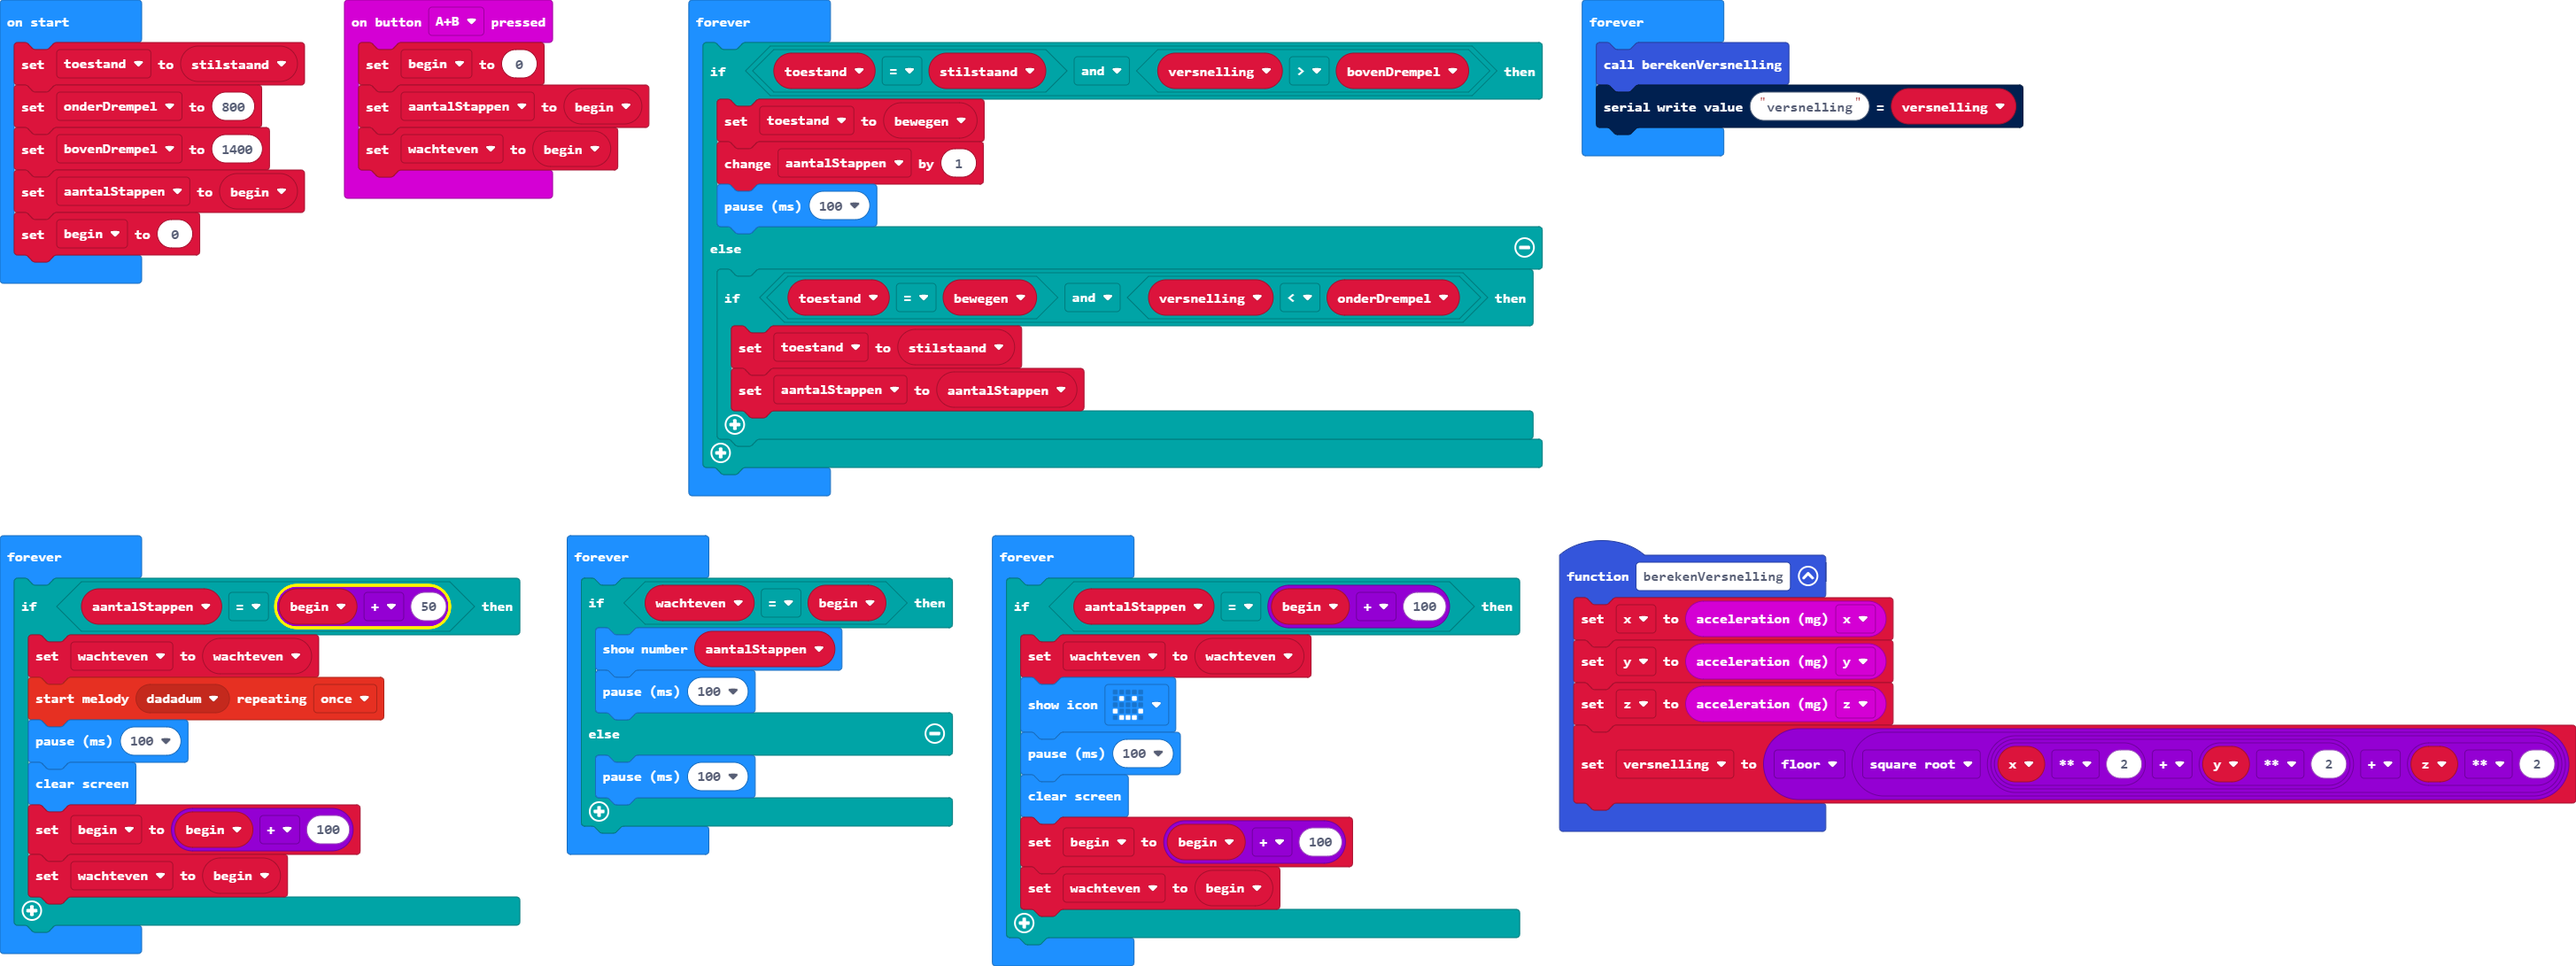
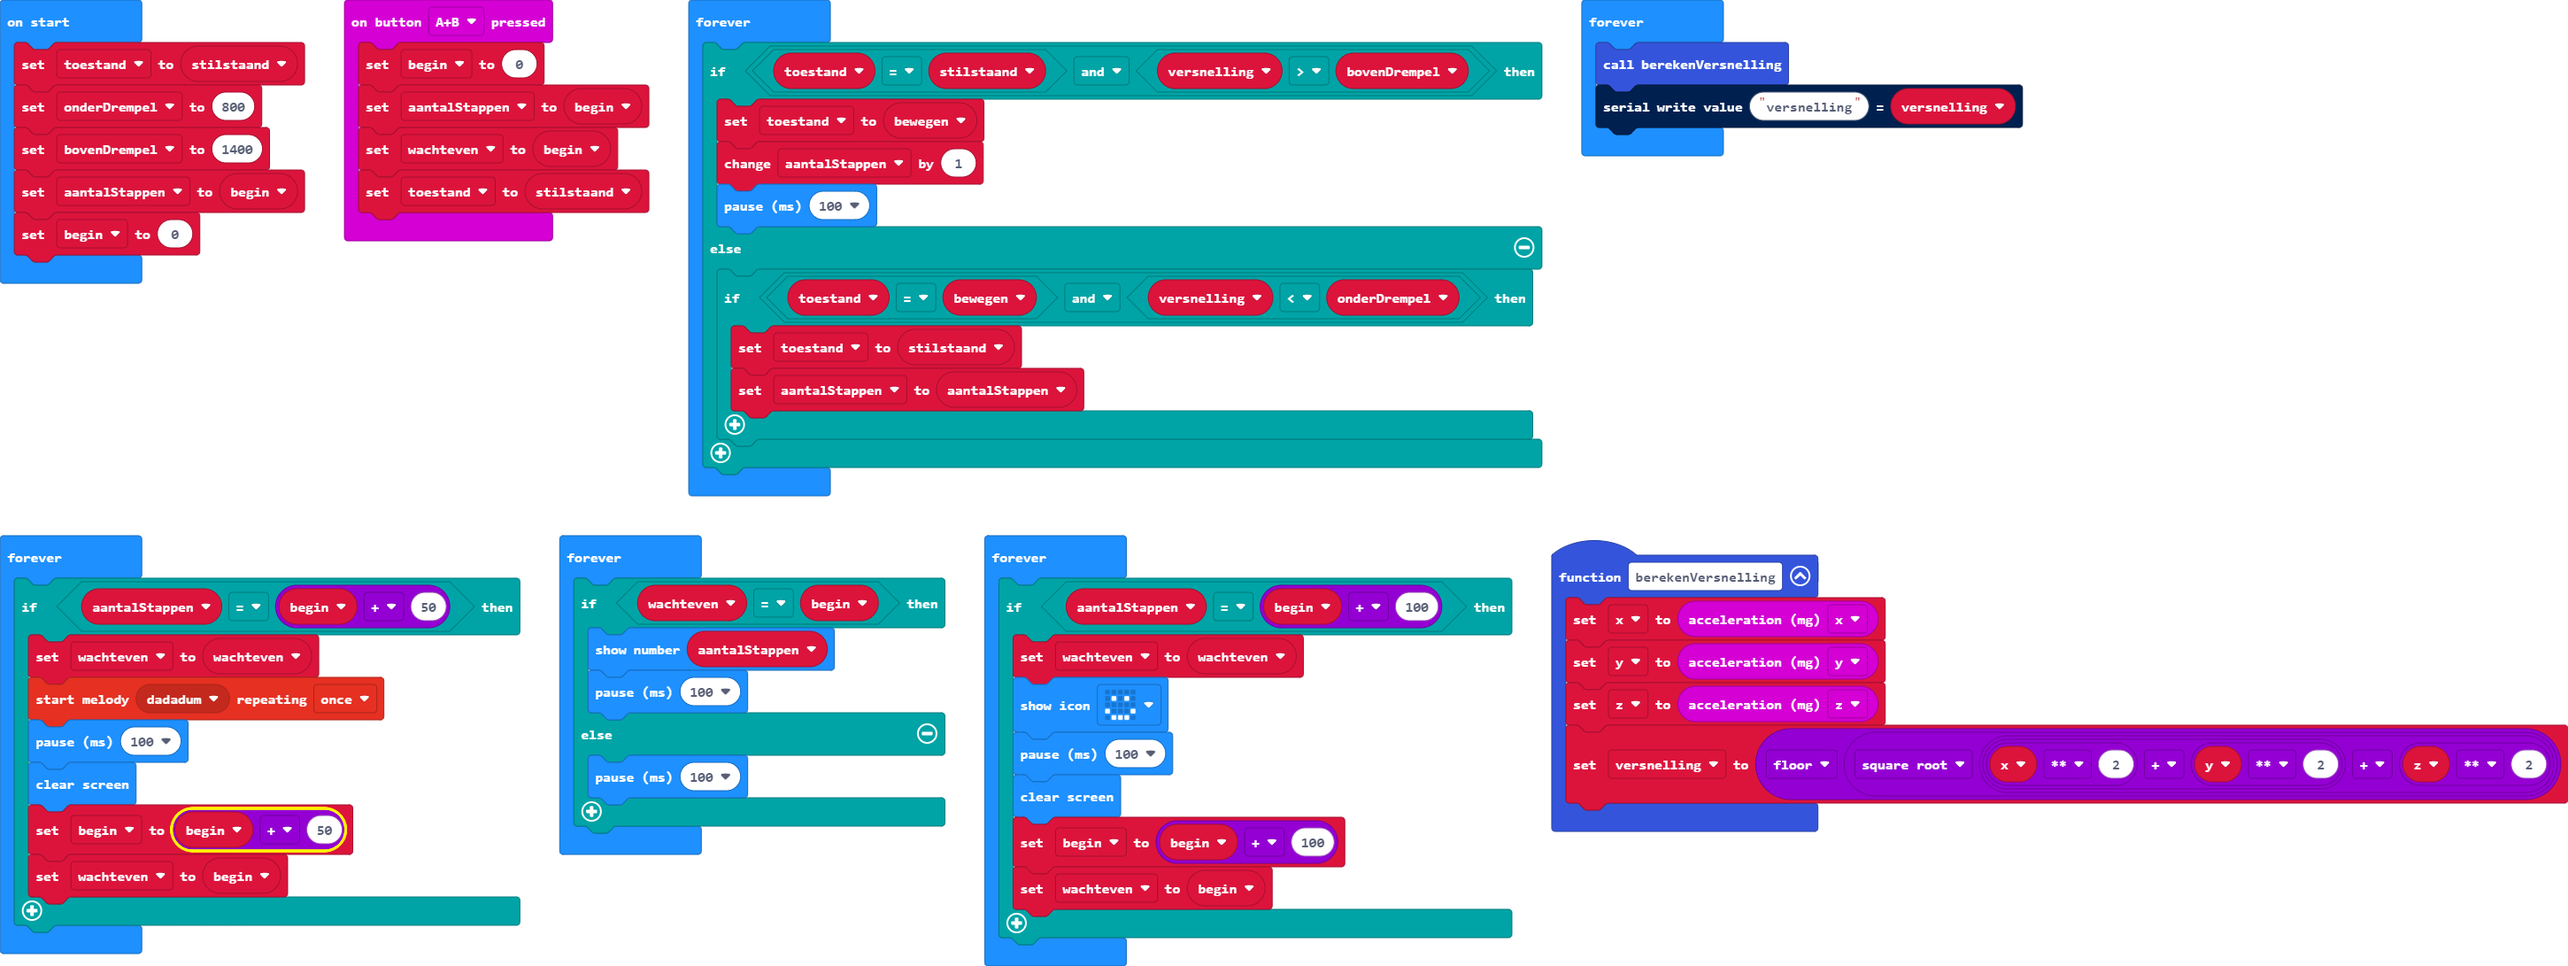
Update pxt.json, main.blocks, main.ts

diff --git a/main.ts b/main.ts
@@ -47,7 +47,7 @@ basic.forever(function () {
         music.startMelody(music.builtInMelody(Melodies.Dadadadum), MelodyOptions.Once)
         basic.pause(100)
         basic.clearScreen()
-        begin = begin + 100
+        begin = begin + 50
         wachteven = begin
     }
 })
